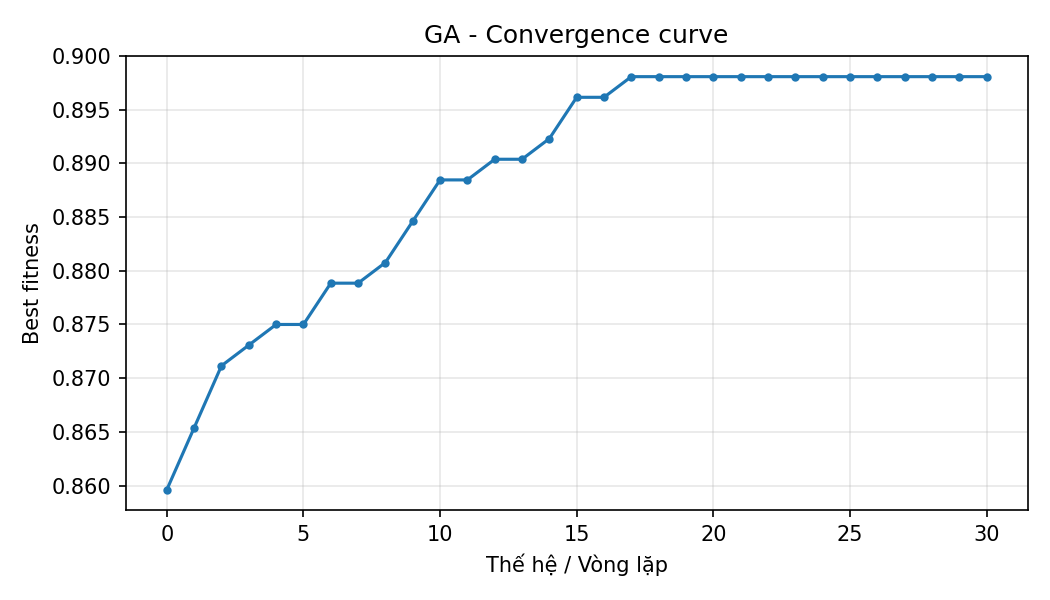
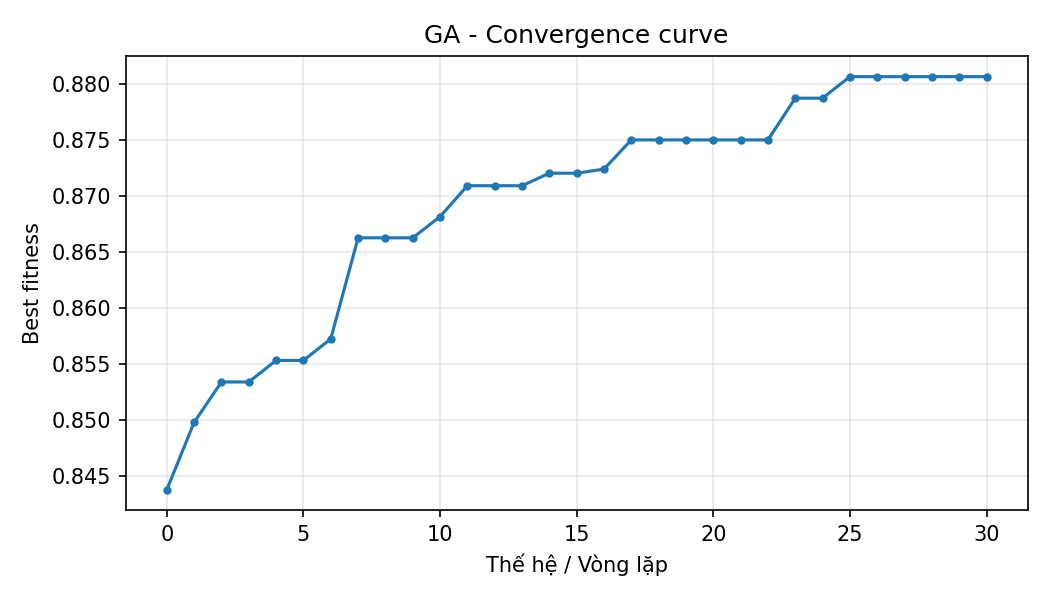
fix(preprocessing): fix Normal/Attack labeling that missed Normal Traffic in CICIDS2017

diff --git a/preprocessing.py b/preprocessing.py
@@ -195,7 +195,11 @@ class NIDSPreprocessor:
         else:
             multi = raw_label
 
-        binary = np.where(multi.str.lower().isin(["normal", "benign"]), "Normal", "Attack")
+        # So khớp linh hoạt (contains) thay vì khớp tuyệt đối, vì các bộ dữ liệu khác nhau
+        # đặt tên nhãn "bình thường" khác nhau: "normal", "BENIGN", "Normal Traffic"...
+        is_normal = multi.str.lower().str.contains("normal", na=False) | \
+                    multi.str.lower().str.contains("benign", na=False)
+        binary = np.where(is_normal, "Normal", "Attack")
         binary = pd.Series(binary, index=df.index, name="binary_label")
 
         drop_cols = [c for c in cfg["drop_cols"] if c in df.columns]
